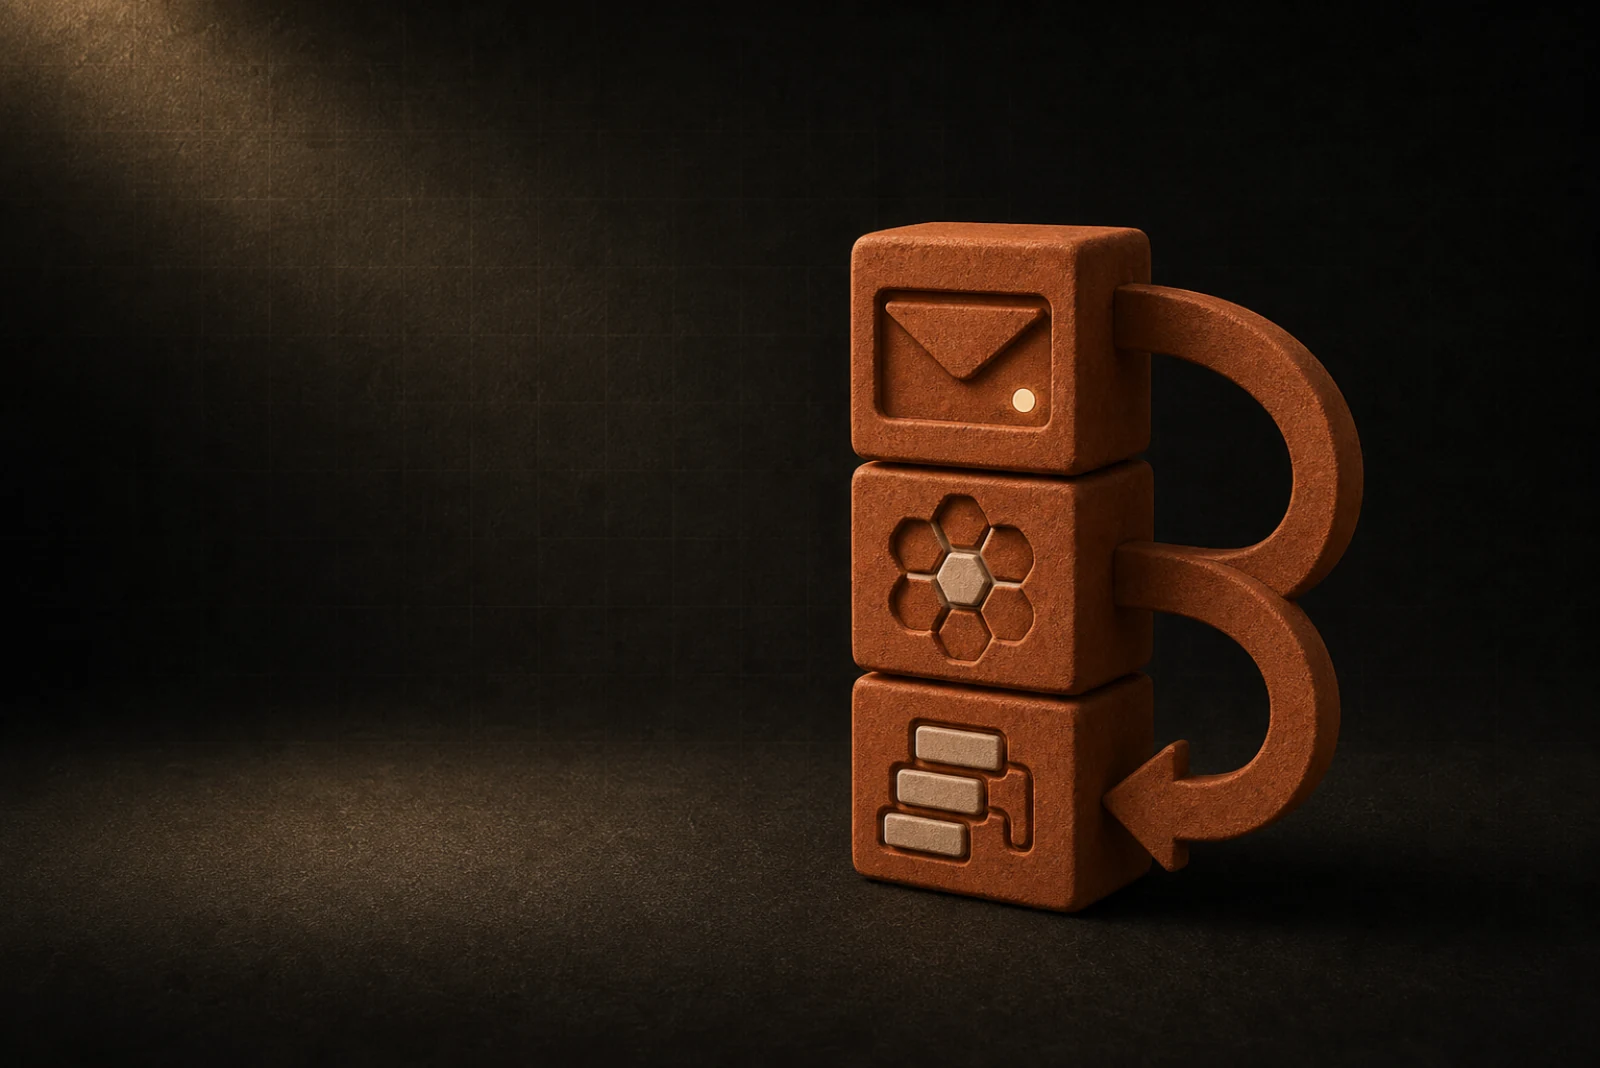
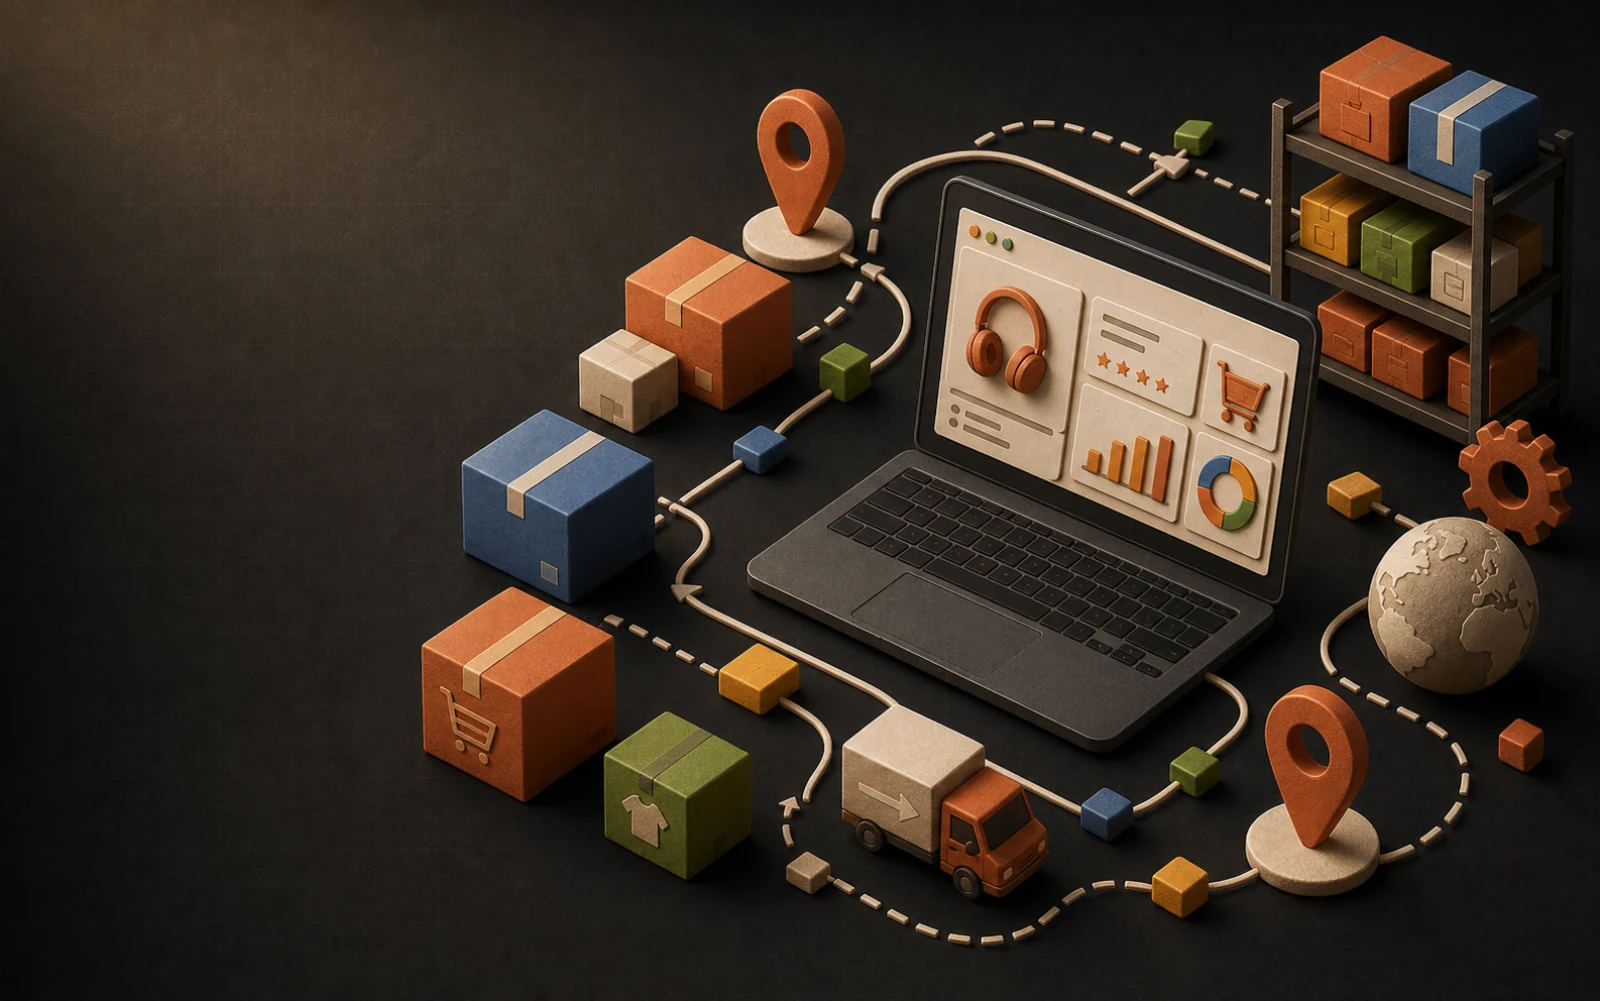
Apply Codex's missed colorful eBay cover
Codex regenerated ebay-automation-stack at 19:35 in a richer 3D
isometric style (boxes, laptop, delivery truck, warehouse, geo
pins, globe, gear) but never moved it to public/covers. Picked up
ebay-automation-stack-colorful.png from /tmp/codex-covers-raw,
re-encoded q88/1600w → 140 KB, replaced cover.

diff --git a/lib/i18n.tsx b/lib/i18n.tsx
@@ -114,19 +114,13 @@ function writeCookie(lang: Lang) {
 }
 
 export function I18nProvider({ children }: { children: ReactNode }) {
-  const [lang, setLangState] = useState<Lang>("ru");
-  const [hydrated, setHydrated] = useState(false);
+  const [lang, setLangState] = useState<Lang>(() => readCookie());
 
   useEffect(() => {
-    setLangState(readCookie());
-    setHydrated(true);
-  }, []);
-
-  useEffect(() => {
-    if (typeof document !== "undefined" && hydrated) {
+    if (typeof document !== "undefined") {
       document.documentElement.lang = lang;
     }
-  }, [lang, hydrated]);
+  }, [lang]);
 
   const setLang = (l: Lang) => {
     writeCookie(l);